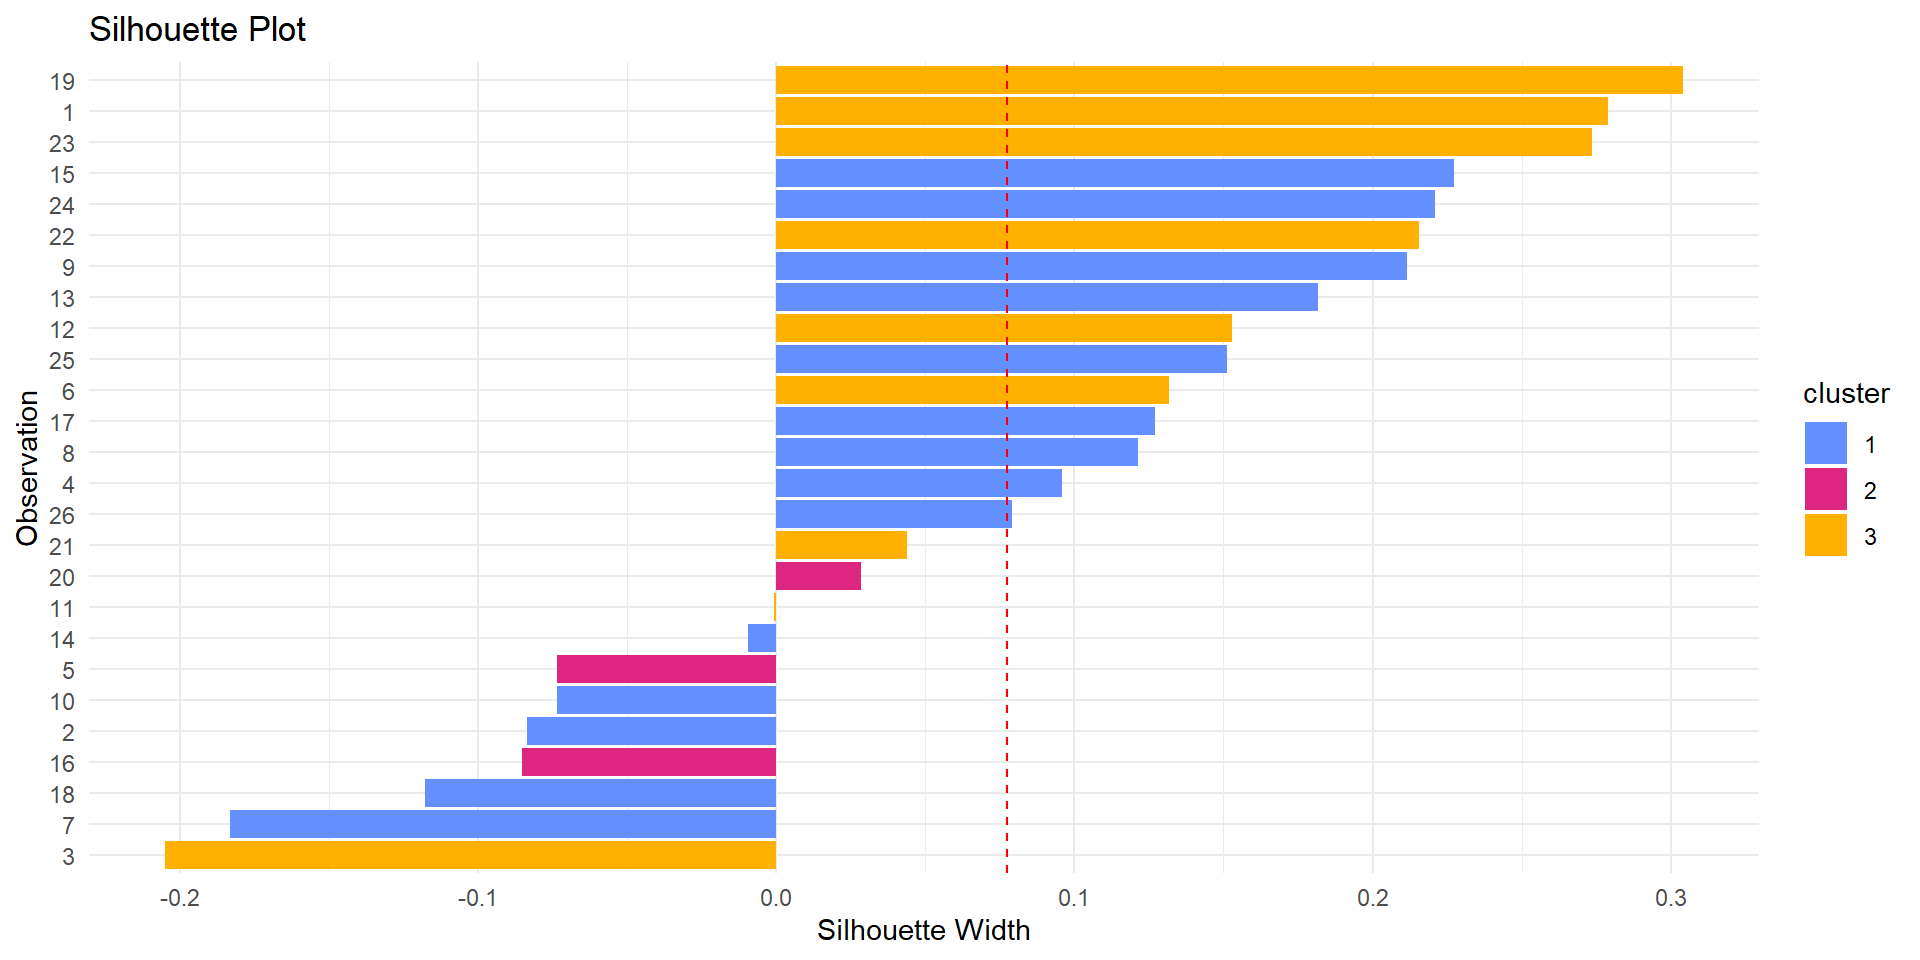
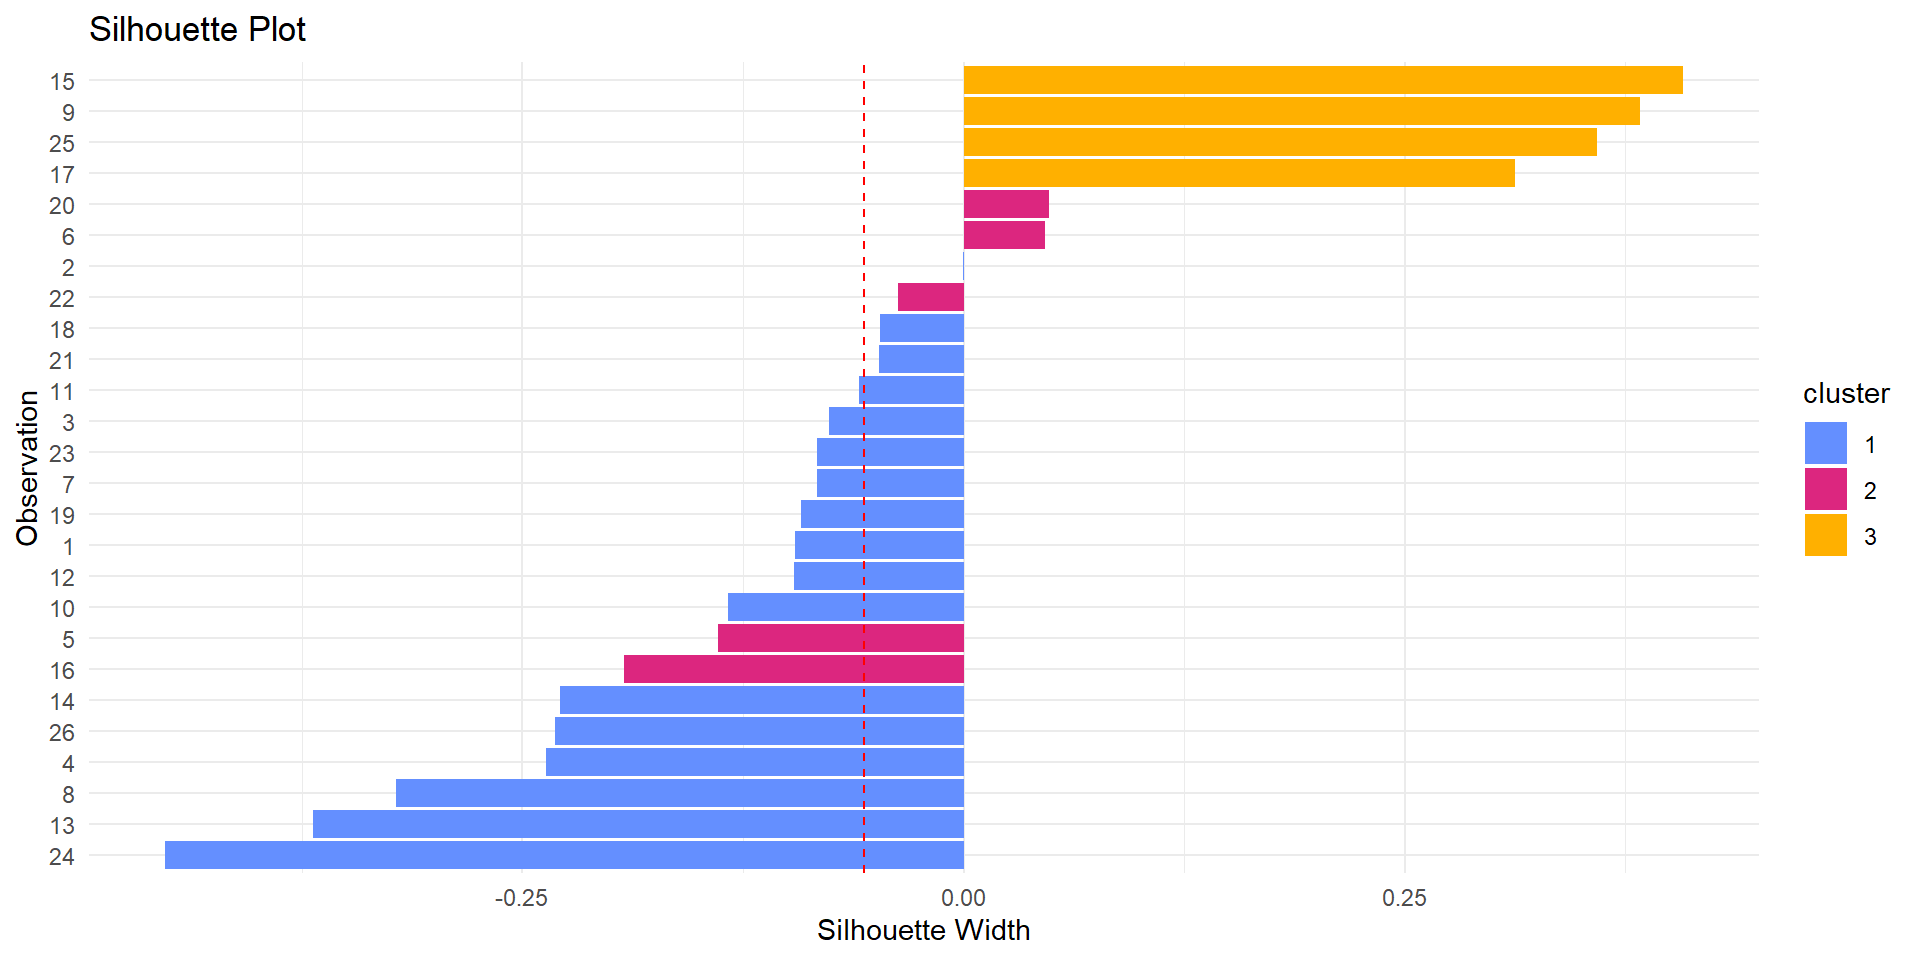
swapping a slide around

diff --git a/Text/Reports/Presentation.html b/Text/Reports/Presentation.html
@@ -1816,6 +1816,10 @@ Gaia Smith and Alice Thompson
 <h2>3.1 PAM - Linear analysis</h2>
 
 <img data-src="https://raw.githubusercontent.com/luke8471/STAT394-GROUP-3/main/Figures/PAM.png" class="r-stretch"></section>
+<section id="pam" class="slide level2">
+<h2>3.1 PAM</h2>
+
+<img data-src="https://raw.githubusercontent.com/luke8471/STAT394-GROUP-3/main/Figures/Avg%20width%20of%20cluster.png" class="r-stretch"></section>
 <section id="cluster-analysis-using-manhattan-distance" class="slide level2">
 <h2>3.2 Cluster Analysis using Manhattan Distance</h2>
 
@@ -1843,45 +1847,45 @@ Gaia Smith and Alice Thompson
 <tbody>
 <tr class="odd">
 <td style="text-align: left;">2</td>
-<td style="text-align: right;">0.2469359</td>
-<td style="text-align: right;">0.2173493</td>
-<td style="text-align: right;">0.5357149</td>
+<td style="text-align: right;">0.3712874</td>
+<td style="text-align: right;">0.3268016</td>
+<td style="text-align: right;">0.3019109</td>
 </tr>
 <tr class="even">
 <td style="text-align: left;">3</td>
-<td style="text-align: right;">0.3917575</td>
-<td style="text-align: right;">0.2921529</td>
-<td style="text-align: right;">0.3160897</td>
+<td style="text-align: right;">0.3896741</td>
+<td style="text-align: right;">0.2905992</td>
+<td style="text-align: right;">0.3197266</td>
 </tr>
 <tr class="odd">
 <td style="text-align: left;">5</td>
-<td style="text-align: right;">0.3385264</td>
-<td style="text-align: right;">0.2986884</td>
-<td style="text-align: right;">0.3627852</td>
+<td style="text-align: right;">0.3817529</td>
+<td style="text-align: right;">0.3368281</td>
+<td style="text-align: right;">0.2814191</td>
 </tr>
 <tr class="even">
 <td style="text-align: left;">6</td>
-<td style="text-align: right;">0.4156300</td>
-<td style="text-align: right;">0.3151064</td>
-<td style="text-align: right;">0.2692637</td>
+<td style="text-align: right;">0.3852587</td>
+<td style="text-align: right;">0.2920806</td>
+<td style="text-align: right;">0.3226607</td>
 </tr>
 <tr class="odd">
 <td style="text-align: left;">8</td>
-<td style="text-align: right;">0.3537473</td>
-<td style="text-align: right;">0.4003357</td>
-<td style="text-align: right;">0.2459171</td>
+<td style="text-align: right;">0.3535656</td>
+<td style="text-align: right;">0.4001300</td>
+<td style="text-align: right;">0.2463044</td>
 </tr>
 <tr class="even">
 <td style="text-align: left;">9</td>
-<td style="text-align: right;">0.0000000</td>
-<td style="text-align: right;">0.0000000</td>
-<td style="text-align: right;">1.0000000</td>
+<td style="text-align: right;">0.3527853</td>
+<td style="text-align: right;">0.4045173</td>
+<td style="text-align: right;">0.2426974</td>
 </tr>
 <tr class="odd">
 <td style="text-align: left;">10</td>
-<td style="text-align: right;">0.3923412</td>
-<td style="text-align: right;">0.3374243</td>
-<td style="text-align: right;">0.2702346</td>
+<td style="text-align: right;">0.4022431</td>
+<td style="text-align: right;">0.3459401</td>
+<td style="text-align: right;">0.2518168</td>
 </tr>
 <tr class="even">
 <td style="text-align: left;">11</td>
@@ -1891,33 +1895,33 @@ Gaia Smith and Alice Thompson
 </tr>
 <tr class="odd">
 <td style="text-align: left;">12</td>
-<td style="text-align: right;">0.6533863</td>
-<td style="text-align: right;">0.2371499</td>
-<td style="text-align: right;">0.1094637</td>
+<td style="text-align: right;">0.0000000</td>
+<td style="text-align: right;">0.0000000</td>
+<td style="text-align: right;">1.0000000</td>
 </tr>
 <tr class="even">
 <td style="text-align: left;">15</td>
-<td style="text-align: right;">0.3874154</td>
-<td style="text-align: right;">0.2726694</td>
-<td style="text-align: right;">0.3399153</td>
+<td style="text-align: right;">0.4033959</td>
+<td style="text-align: right;">0.2839167</td>
+<td style="text-align: right;">0.3126873</td>
 </tr>
 <tr class="odd">
 <td style="text-align: left;">16</td>
-<td style="text-align: right;">0.3063496</td>
-<td style="text-align: right;">0.2780320</td>
-<td style="text-align: right;">0.4156184</td>
+<td style="text-align: right;">0.3890680</td>
+<td style="text-align: right;">0.3531042</td>
+<td style="text-align: right;">0.2578278</td>
 </tr>
 <tr class="even">
 <td style="text-align: left;">18</td>
-<td style="text-align: right;">0.2912467</td>
-<td style="text-align: right;">0.2640691</td>
-<td style="text-align: right;">0.4446842</td>
+<td style="text-align: right;">0.3452228</td>
+<td style="text-align: right;">0.3130084</td>
+<td style="text-align: right;">0.3417688</td>
 </tr>
 <tr class="odd">
 <td style="text-align: left;">20</td>
-<td style="text-align: right;">0.5649587</td>
-<td style="text-align: right;">0.3014772</td>
-<td style="text-align: right;">0.1335641</td>
+<td style="text-align: right;">0.4514959</td>
+<td style="text-align: right;">0.2409304</td>
+<td style="text-align: right;">0.3075738</td>
 </tr>
 </tbody>
 </table>
@@ -1942,15 +1946,15 @@ Gaia Smith and Alice Thompson
 <tbody>
 <tr class="odd">
 <td style="text-align: left;">23</td>
-<td style="text-align: right;">0.4602814</td>
-<td style="text-align: right;">0.3910804</td>
-<td style="text-align: right;">0.1486382</td>
+<td style="text-align: right;">0.3824191</td>
+<td style="text-align: right;">0.3249243</td>
+<td style="text-align: right;">0.2926567</td>
 </tr>
 <tr class="even">
 <td style="text-align: left;">24</td>
-<td style="text-align: right;">0.4868243</td>
-<td style="text-align: right;">0.3654179</td>
-<td style="text-align: right;">0.1477578</td>
+<td style="text-align: right;">0.3548025</td>
+<td style="text-align: right;">0.2663203</td>
+<td style="text-align: right;">0.3788772</td>
 </tr>
 <tr class="odd">
 <td style="text-align: left;">26</td>
@@ -1960,63 +1964,63 @@ Gaia Smith and Alice Thompson
 </tr>
 <tr class="even">
 <td style="text-align: left;">27</td>
-<td style="text-align: right;">0.4567625</td>
-<td style="text-align: right;">0.3981832</td>
-<td style="text-align: right;">0.1450543</td>
+<td style="text-align: right;">0.3044826</td>
+<td style="text-align: right;">0.2654330</td>
+<td style="text-align: right;">0.4300844</td>
 </tr>
 <tr class="odd">
 <td style="text-align: left;">29</td>
-<td style="text-align: right;">0.3788517</td>
-<td style="text-align: right;">0.3407092</td>
-<td style="text-align: right;">0.2804392</td>
+<td style="text-align: right;">0.3806608</td>
+<td style="text-align: right;">0.3423361</td>
+<td style="text-align: right;">0.2770031</td>
 </tr>
 <tr class="even">
 <td style="text-align: left;">30</td>
-<td style="text-align: right;">0.2920220</td>
-<td style="text-align: right;">0.2744208</td>
-<td style="text-align: right;">0.4335572</td>
+<td style="text-align: right;">0.3617614</td>
+<td style="text-align: right;">0.3399568</td>
+<td style="text-align: right;">0.2982818</td>
 </tr>
 <tr class="odd">
 <td style="text-align: left;">31</td>
-<td style="text-align: right;">0.3107575</td>
-<td style="text-align: right;">0.3533065</td>
-<td style="text-align: right;">0.3359359</td>
+<td style="text-align: right;">0.3478500</td>
+<td style="text-align: right;">0.3954776</td>
+<td style="text-align: right;">0.2566724</td>
 </tr>
 <tr class="even">
 <td style="text-align: left;">32</td>
-<td style="text-align: right;">0.3298142</td>
-<td style="text-align: right;">0.2610196</td>
-<td style="text-align: right;">0.4091662</td>
+<td style="text-align: right;">0.3916442</td>
+<td style="text-align: right;">0.3099527</td>
+<td style="text-align: right;">0.2984031</td>
 </tr>
 <tr class="odd">
 <td style="text-align: left;">33</td>
-<td style="text-align: right;">0.2933524</td>
-<td style="text-align: right;">0.3085990</td>
-<td style="text-align: right;">0.3980485</td>
+<td style="text-align: right;">0.3467602</td>
+<td style="text-align: right;">0.3647826</td>
+<td style="text-align: right;">0.2884572</td>
 </tr>
 <tr class="even">
 <td style="text-align: left;">34</td>
-<td style="text-align: right;">0.3200385</td>
-<td style="text-align: right;">0.2849537</td>
-<td style="text-align: right;">0.3950078</td>
+<td style="text-align: right;">0.3722342</td>
+<td style="text-align: right;">0.3314273</td>
+<td style="text-align: right;">0.2963385</td>
 </tr>
 <tr class="odd">
 <td style="text-align: left;">35</td>
-<td style="text-align: right;">0.4987208</td>
-<td style="text-align: right;">0.3522715</td>
-<td style="text-align: right;">0.1490077</td>
+<td style="text-align: right;">0.3934302</td>
+<td style="text-align: right;">0.2778994</td>
+<td style="text-align: right;">0.3286704</td>
 </tr>
 <tr class="even">
 <td style="text-align: left;">36</td>
-<td style="text-align: right;">0.4801506</td>
-<td style="text-align: right;">0.3521509</td>
-<td style="text-align: right;">0.1676986</td>
+<td style="text-align: right;">0.3587441</td>
+<td style="text-align: right;">0.2631092</td>
+<td style="text-align: right;">0.3781467</td>
 </tr>
 <tr class="odd">
 <td style="text-align: left;">37</td>
-<td style="text-align: right;">0.4883697</td>
-<td style="text-align: right;">0.3520260</td>
-<td style="text-align: right;">0.1596043</td>
+<td style="text-align: right;">0.4015658</td>
+<td style="text-align: right;">0.2894561</td>
+<td style="text-align: right;">0.3089781</td>
 </tr>
 </tbody>
 </table>
@@ -2029,10 +2033,6 @@ Gaia Smith and Alice Thompson
 
 <img data-src="Presentation_files/figure-revealjs/fuzzy2-1.png" width="960" class="r-stretch"></section>
 <section id="fuzzy-analysis-1" class="slide level2">
-<h2>3.3 Fuzzy Analysis</h2>
-
-<img data-src="https://raw.githubusercontent.com/luke8471/STAT394-GROUP-3/main/Figures/Avg%20width%20of%20cluster.png" class="r-stretch"></section>
-<section id="fuzzy-analysis-2" class="slide level2">
 <h2>3.3 Fuzzy Analysis</h2>
 
 <img data-src="https://raw.githubusercontent.com/luke8471/STAT394-GROUP-3/main/Figures/Fuzzy.png" class="r-stretch"></section>
